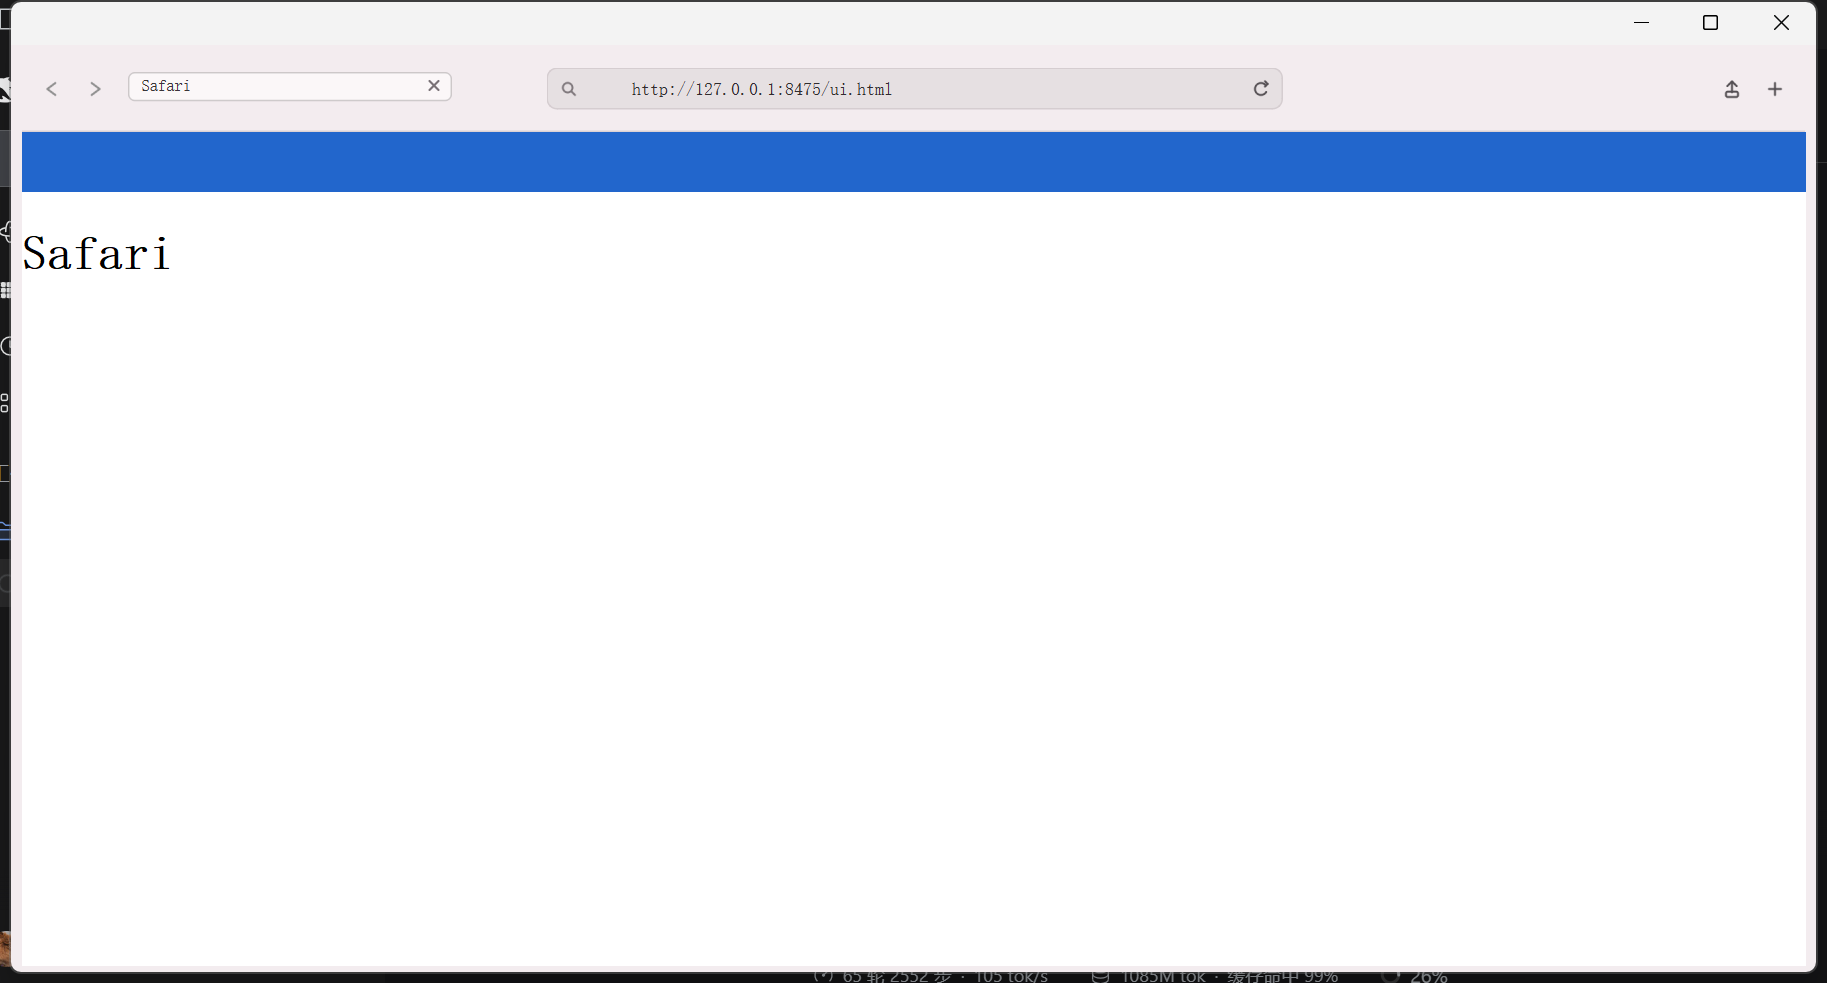
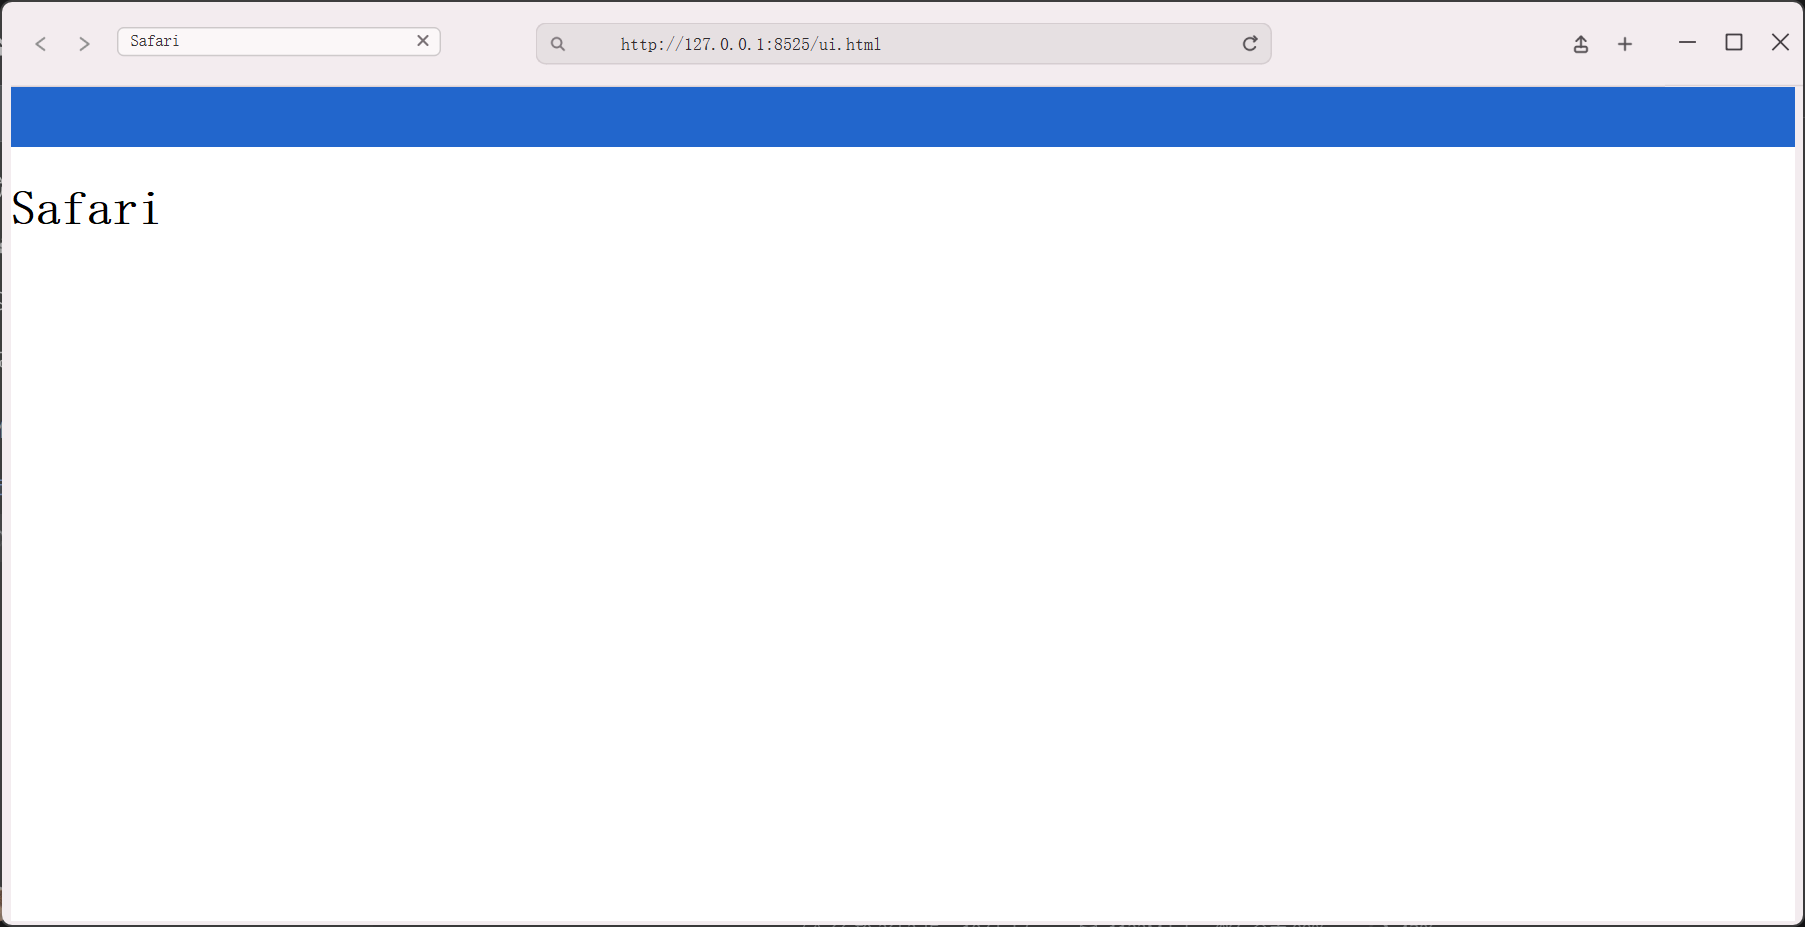
Move unified toolbar into extended caption row

Changed region(s): [[0.0, 0.0, 1.0, 1.0], [0.8687, 0.0302, 0.8997, 0.0604], [0.6825, 0.0302, 0.7136, 0.0604]]

diff --git a/src/host/khtml_browser.cpp b/src/host/khtml_browser.cpp
@@ -65,6 +65,7 @@
 #define WIN32_LEAN_AND_MEAN
 #define NOMINMAX
 #include <windows.h>
+#include <dwmapi.h>
 #include <psapi.h>
 #include <pdh.h>
 #include <pdhmsg.h>
@@ -1568,6 +1569,120 @@ private:
     int m_loadProgress = -1;
 };
 
+// One-window toolbar / caption metrics (logical pixels).  The native title
+// bar is extended away; CaptionButtonsWidget paints the three Windows glyphs
+// while WM_NCHITTEST returns the real HT* codes so the system still performs
+// min/max/close, Snap Layouts and drag behavior.
+static constexpr int kUnifiedHeaderHeight = 58;
+static constexpr int kCaptionButtonWidth = 31;
+static constexpr int kCaptionButtonsWidth = kCaptionButtonWidth * 3;
+
+class CaptionButtonsWidget : public QWidget
+{
+public:
+    explicit CaptionButtonsWidget(QWidget *parent = nullptr) : QWidget(parent)
+    {
+        setFocusPolicy(Qt::NoFocus);
+        setMouseTracking(true);
+    }
+
+    void setHovered(int index)
+    {
+        if (m_hover == index) return;
+        m_hover = index;
+        update();
+    }
+
+protected:
+    int buttonAt(const QPoint &p) const
+    {
+        const int bw = qMax(1, width() / 3);
+        const int idx = qBound(0, p.x() / bw, 2);
+        return rect().contains(p) ? idx : -1;
+    }
+
+    void mouseMoveEvent(QMouseEvent *e) override
+    {
+        setHovered(buttonAt(e->pos()));
+        QWidget::mouseMoveEvent(e);
+    }
+
+    void leaveEvent(QEvent *e) override
+    {
+        setHovered(-1);
+        QWidget::leaveEvent(e);
+    }
+
+    void mousePressEvent(QMouseEvent *e) override
+    {
+        if (e->button() != Qt::LeftButton) {
+            QWidget::mousePressEvent(e);
+            return;
+        }
+        m_pressed = buttonAt(e->pos());
+        setHovered(m_pressed);
+        update();
+    }
+
+    void mouseReleaseEvent(QMouseEvent *e) override
+    {
+        if (e->button() != Qt::LeftButton) return;
+        const int idx = buttonAt(e->pos());
+        if (idx >= 0 && idx == m_pressed) {
+            QWidget *top = window();
+            if (auto *mw = qobject_cast<QMainWindow *>(top)) {
+                if (idx == 0) mw->showMinimized();
+                else if (idx == 1) {
+                    if (mw->isMaximized()) mw->showNormal();
+                    else mw->showMaximized();
+                } else {
+                    mw->close();
+                }
+            }
+        }
+        m_pressed = -1;
+        update();
+    }
+
+    void paintEvent(QPaintEvent *) override
+    {
+        QPainter p(this);
+        p.setRenderHint(QPainter::Antialiasing, true);
+        p.fillRect(rect(), QColor(0xF3, 0xEC, 0xEF));
+        // Preserve the toolbar's bottom hairline across the overlay.
+        p.setPen(QPen(QColor(0xDC, 0xD2, 0xD5), 1));
+        p.drawLine(0, height() - 1, width(), height() - 1);
+
+        const int bw = qMax(1, width() / 3);
+        for (int i = 0; i < 3; ++i) {
+            const QRect r(i * bw, 0, (i == 2 ? width() - 2 * bw : bw), height());
+            if (m_hover == i) {
+                p.fillRect(r, i == 2 ? QColor(0xE8, 0x11, 0x23)
+                                     : QColor(0xE5, 0xDF, 0xE2));
+            }
+            const QColor glyph = (m_hover == 2 && i == 2)
+                    ? QColor(255, 255, 255) : QColor(0x45, 0x40, 0x44);
+            p.setPen(QPen(glyph, 1.2));
+            const QPointF c(r.center());
+            if (i == 0) {                         // minimize
+                p.drawLine(QPointF(c.x() - 5, c.y()),
+                           QPointF(c.x() + 5, c.y()));
+            } else if (i == 1) {                  // maximize / restore
+                p.drawRect(QRectF(c.x() - 5, c.y() - 5, 10, 10));
+            } else {                              // close
+                p.drawLine(QPointF(c.x() - 5, c.y() - 5),
+                           QPointF(c.x() + 5, c.y() + 5));
+                p.drawLine(QPointF(c.x() + 5, c.y() - 5),
+                           QPointF(c.x() - 5, c.y() + 5));
+            }
+        }
+    }
+
+private:
+    int m_hover = -1;
+    int m_pressed = -1;
+};
+
 class KHtmlLiteWindow : public QMainWindow
 {
     Q_OBJECT
@@ -1576,14 +1691,14 @@ public:
         : QMainWindow(parent)
     {
         setWindowTitle(QStringLiteral("KHtmlLite"));
-        // Native Windows 11 frame and caption: real DWM slightly-rounded
-        // corners plus the system minimize/maximize/close buttons.  Do not
-        // set FramelessWindowHint; the client chrome begins below the native
-        // title bar, so the page origin inside the client is unchanged.
-        // Default window size — LOGICAL (Qt/CSS) pixels.  Sizing follows the
-        // desktop-browser convention: a fraction of the work area, capped at
-        // a sane default DIP size (Chrome/Edge open ~1200x650 outer on this
-        // desktop), never smaller than 720x480 client.
+        // Native Win11 frame is retained for DWM shadow/rounded corners, but
+        // WM_NCCALCSIZE extends the client over the caption.  The tab/address
+        // toolbar therefore starts at the very top; CaptionButtonsWidget draws
+        // the min/max/close glyphs on the same row.  Do not set
+        // FramelessWindowHint.  Default window size — LOGICAL (Qt/CSS) pixels:
+        // sizing follows the desktop-browser convention, a fraction of the
+        // work area capped at a sane default DIP size (Chrome/Edge open
+        // ~1200x650 outer on this desktop), never smaller than 720x480 client.
         //   History: a literal 1024x720 became 1536x1080 DEVICE px once
         //   High-DPI scaling was on; the previous "fix" divided by the screen
         //   ratio to restore the pre-High-DPI PHYSICAL footprint (683x480
@@ -1657,23 +1772,17 @@ public:
         connect(m_resizeTimer, &QTimer::timeout, this, &KHtmlLiteWindow::applyPendingResize);
         addTab(start.isEmpty() ? QUrl(QStringLiteral("https://cn.bing.com")) : start);
         STARTUP_MARK("first tab added");
-        STARTUP_MARK("first tab added");
         syncChrome();
-        // Apply the caption-text colour before show() so the title text never
-        // flashes on screen.  At construction the window is not foreground, so
-        // this first pass uses the theme fallback; retry/refine after show when
-        // the real DWM/Mica background can be sampled.
-        hideNativeCaptionText();
-        hideNativeCaptionIcon();
-        QTimer::singleShot(500, this, [this]() {
-            if (!m_captionTextHidden) hideNativeCaptionText();
-            refineNativeCaptionText();
-            hideNativeCaptionIcon();
-        });
-        QTimer::singleShot(1000, this, [this]() {
-            refineNativeCaptionText();
-            hideNativeCaptionIcon();
-        });
+        // Extend the client into the caption strip and put the tab/address
+        // toolbar on that row, with custom-drawn Win11 caption glyphs.  This
+        // replaces the previous DWM "paint native caption text invisible"
+        // approach, which left an empty native strip above the toolbar.
+        extendClientIntoCaption();
+        qApp->installEventFilter(this);
+    }
+
+    ~KHtmlLiteWindow() override {
+        if (qApp) qApp->removeEventFilter(this);
     }
 
     // Clear the engine's page-cache mirror on demand.  Settings UIs should call
@@ -2022,7 +2131,7 @@ public:
 
         DragStrip *header = new DragStrip(central);
         header->setObjectName(QStringLiteral("toolbar"));
-        header->setFixedHeight(58);
+        header->setFixedHeight(kUnifiedHeaderHeight);
         m_tabStrip = header;
         QHBoxLayout *tb = new QHBoxLayout(header);
         tb->setContentsMargins(8, 0, 8, 0);
@@ -2066,9 +2175,10 @@ public:
 
         // Invisible balance equal to the tab-strip's extra left width keeps
         // the address field centered in the client, not merely centered in the
-        // remaining gap.  (Left fixed = back/fwd+tab=281; right fixed=54.)
+        // remaining gap.  Left fixed = back/fwd+tab=281.  The right side is
+        // balance + share/plus (54) + the 93-logical caption-button reserve.
         QWidget *balance = new QWidget(header);
-        balance->setFixedWidth(227);
+        balance->setFixedWidth(134);
         tb->addWidget(balance);
 
         // Right logical group: actual shell functions only.  Share copies the
@@ -2088,6 +2198,18 @@ public:
         rg->addWidget(m_shareBtn);
         rg->addWidget(m_newTabBtn);
         tb->addWidget(rightGroup, 0, Qt::AlignVCenter);
+
+        // Reserved strip for the custom-drawn Win11 caption buttons.  The
+        // buttons themselves are an overlay flush with the window's top-right
+        // corner, so they are not clipped by the central widget's 7px inset.
+        QWidget *captionSpacer = new QWidget(header);
+        captionSpacer->setFixedWidth(kCaptionButtonsWidth);
+        tb->addWidget(captionSpacer);
+
+        m_captionButtons = new CaptionButtonsWidget(this);
+        m_captionButtons->setFixedSize(kCaptionButtonsWidth, kUnifiedHeaderHeight);
+        m_captionButtons->show();
+        m_captionButtons->raise();
         root->addWidget(header);
 
         m_stack = new QStackedWidget(central);
@@ -2544,6 +2666,7 @@ protected:
     void resizeEvent(QResizeEvent *event) override {
         QMainWindow::resizeEvent(event);
         updateAddressMetrics();
+        updateCaptionButtonsGeometry();
         if (m_liveResize) {
             // Live-resize in progress: do not ship intermediate pixel sizes to
             // the renderer. PageSurface scales its last frame for visual
@@ -2581,9 +2704,52 @@ protected:
     // changes such as maximize / restore / programmatic resize. Those go
     // straight through resizeEvent → the existing coalescing timer, so they
     // commit the real final size immediately with no temporary transform.
+    bool eventFilter(QObject *watched, QEvent *event) override {
+        // The extended client contains native Qt child windows that cover the
+        // frame edges, so WM_NCHITTEST at the top level never sees edge mouse
+        // presses.  Start the system resize from the Qt press instead.
+        if (event->type() == QEvent::MouseButtonPress && !isMaximized()
+                && !isFullScreen()) {
+            auto *me = static_cast<QMouseEvent *>(event);
+            QWidget *w = qobject_cast<QWidget *>(watched);
+            if (me->button() == Qt::LeftButton && w && w->window() == this) {
+                const QPoint p = mapFromGlobal(me->globalPos());
+                const int e = 6;
+                Qt::Edges edges;
+                if (p.x() >= 0 && p.x() < e) edges |= Qt::LeftEdge;
+                else if (p.x() < width() && p.x() >= width() - e) edges |= Qt::RightEdge;
+                if (p.y() >= 0 && p.y() < e) edges |= Qt::TopEdge;
+                else if (p.y() < height() && p.y() >= height() - e) edges |= Qt::BottomEdge;
+                if (edges != Qt::Edges() && windowHandle()
+                        && windowHandle()->startSystemResize(edges)) {
+                    return true;
+                }
+            }
+        }
+        return QMainWindow::eventFilter(watched, event);
+    }
+
     bool nativeEvent(const QByteArray &eventType, void *message, long *result) override {
         if (eventType == "windows_generic_MSG") {
             MSG *msg = reinterpret_cast<MSG *>(message);
+            if (m_captionExtended && msg->message == WM_NCCALCSIZE
+                    && msg->wParam == TRUE) {
+                // Client covers the whole window, so the address/toolbar can
+                // sit in the caption row.  Pinning the client to rcWork while
+                // maximized avoids inheriting the invisible resize border.
+                if (IsZoomed(msg->hwnd)) {
+                    NCCALCSIZE_PARAMS *p =
+                            reinterpret_cast<NCCALCSIZE_PARAMS *>(msg->lParam);
+                    MONITORINFO mi = {sizeof(MONITORINFO)};
+                    if (GetMonitorInfoW(
+                                MonitorFromWindow(msg->hwnd, MONITOR_DEFAULTTONEAREST),
+                                &mi)) {
+                        p->rgrc[0] = mi.rcWork;
+                    }
+                }
+                *result = 0;
+                return true;
+            }
             switch (msg->message) {
             case WM_ENTERSIZEMOVE:
                 beginLiveResize();
@@ -2596,6 +2762,44 @@ protected:
             }
         }
         return QMainWindow::nativeEvent(eventType, message, result);
+    }
+
+    void showEvent(QShowEvent *event) override {
+        QMainWindow::showEvent(event);
+        extendClientIntoCaption();
+        updateCaptionButtonsGeometry();
+    }
+
+    void extendClientIntoCaption() {
+        if (m_captionExtended) return;
+        HWND hwnd = reinterpret_cast<HWND>(winId());
+        if (!hwnd) return;
+        // DwmExtendFrameIntoClientArea is loaded dynamically: the host does
+        // not otherwise link dwmapi and remains runnable without DWM.
+        HMODULE dwm = LoadLibraryW(L"dwmapi.dll");
+        if (!dwm) return;
+        using ExtendFn = HRESULT (WINAPI *)(HWND, const MARGINS *);
+        ExtendFn extend = reinterpret_cast<ExtendFn>(
+                GetProcAddress(dwm, "DwmExtendFrameIntoClientArea"));
+        if (!extend) {
+            FreeLibrary(dwm);
+            return;
+        }
+        MARGINS margins = {0, 0, kUnifiedHeaderHeight, 0};
+        const HRESULT hr = extend(hwnd, &margins);
+        FreeLibrary(dwm);
+        if (FAILED(hr)) return;
+        m_captionExtended = true;
+        SetWindowPos(hwnd, nullptr, 0, 0, 0, 0,
+                     SWP_NOMOVE | SWP_NOSIZE | SWP_NOZORDER | SWP_FRAMECHANGED);
+        updateCaptionButtonsGeometry();
+    }
+
+    void updateCaptionButtonsGeometry() {
+        if (!m_captionButtons) return;
+        m_captionButtons->setGeometry(width() - kCaptionButtonsWidth, 0,
+                                      kCaptionButtonsWidth, kUnifiedHeaderHeight);
+        m_captionButtons->raise();
     }
 
     void beginLiveResize() {
@@ -3152,6 +3356,8 @@ protected:
     QList<TabPage *> m_pages;
     AddressEdit *m_addr = nullptr;
     QAction *m_reloadAction = nullptr;
+    CaptionButtonsWidget *m_captionButtons = nullptr;
+    bool m_captionExtended = false;
     QPushButton *m_back = nullptr, *m_fwd = nullptr;
 };
 
